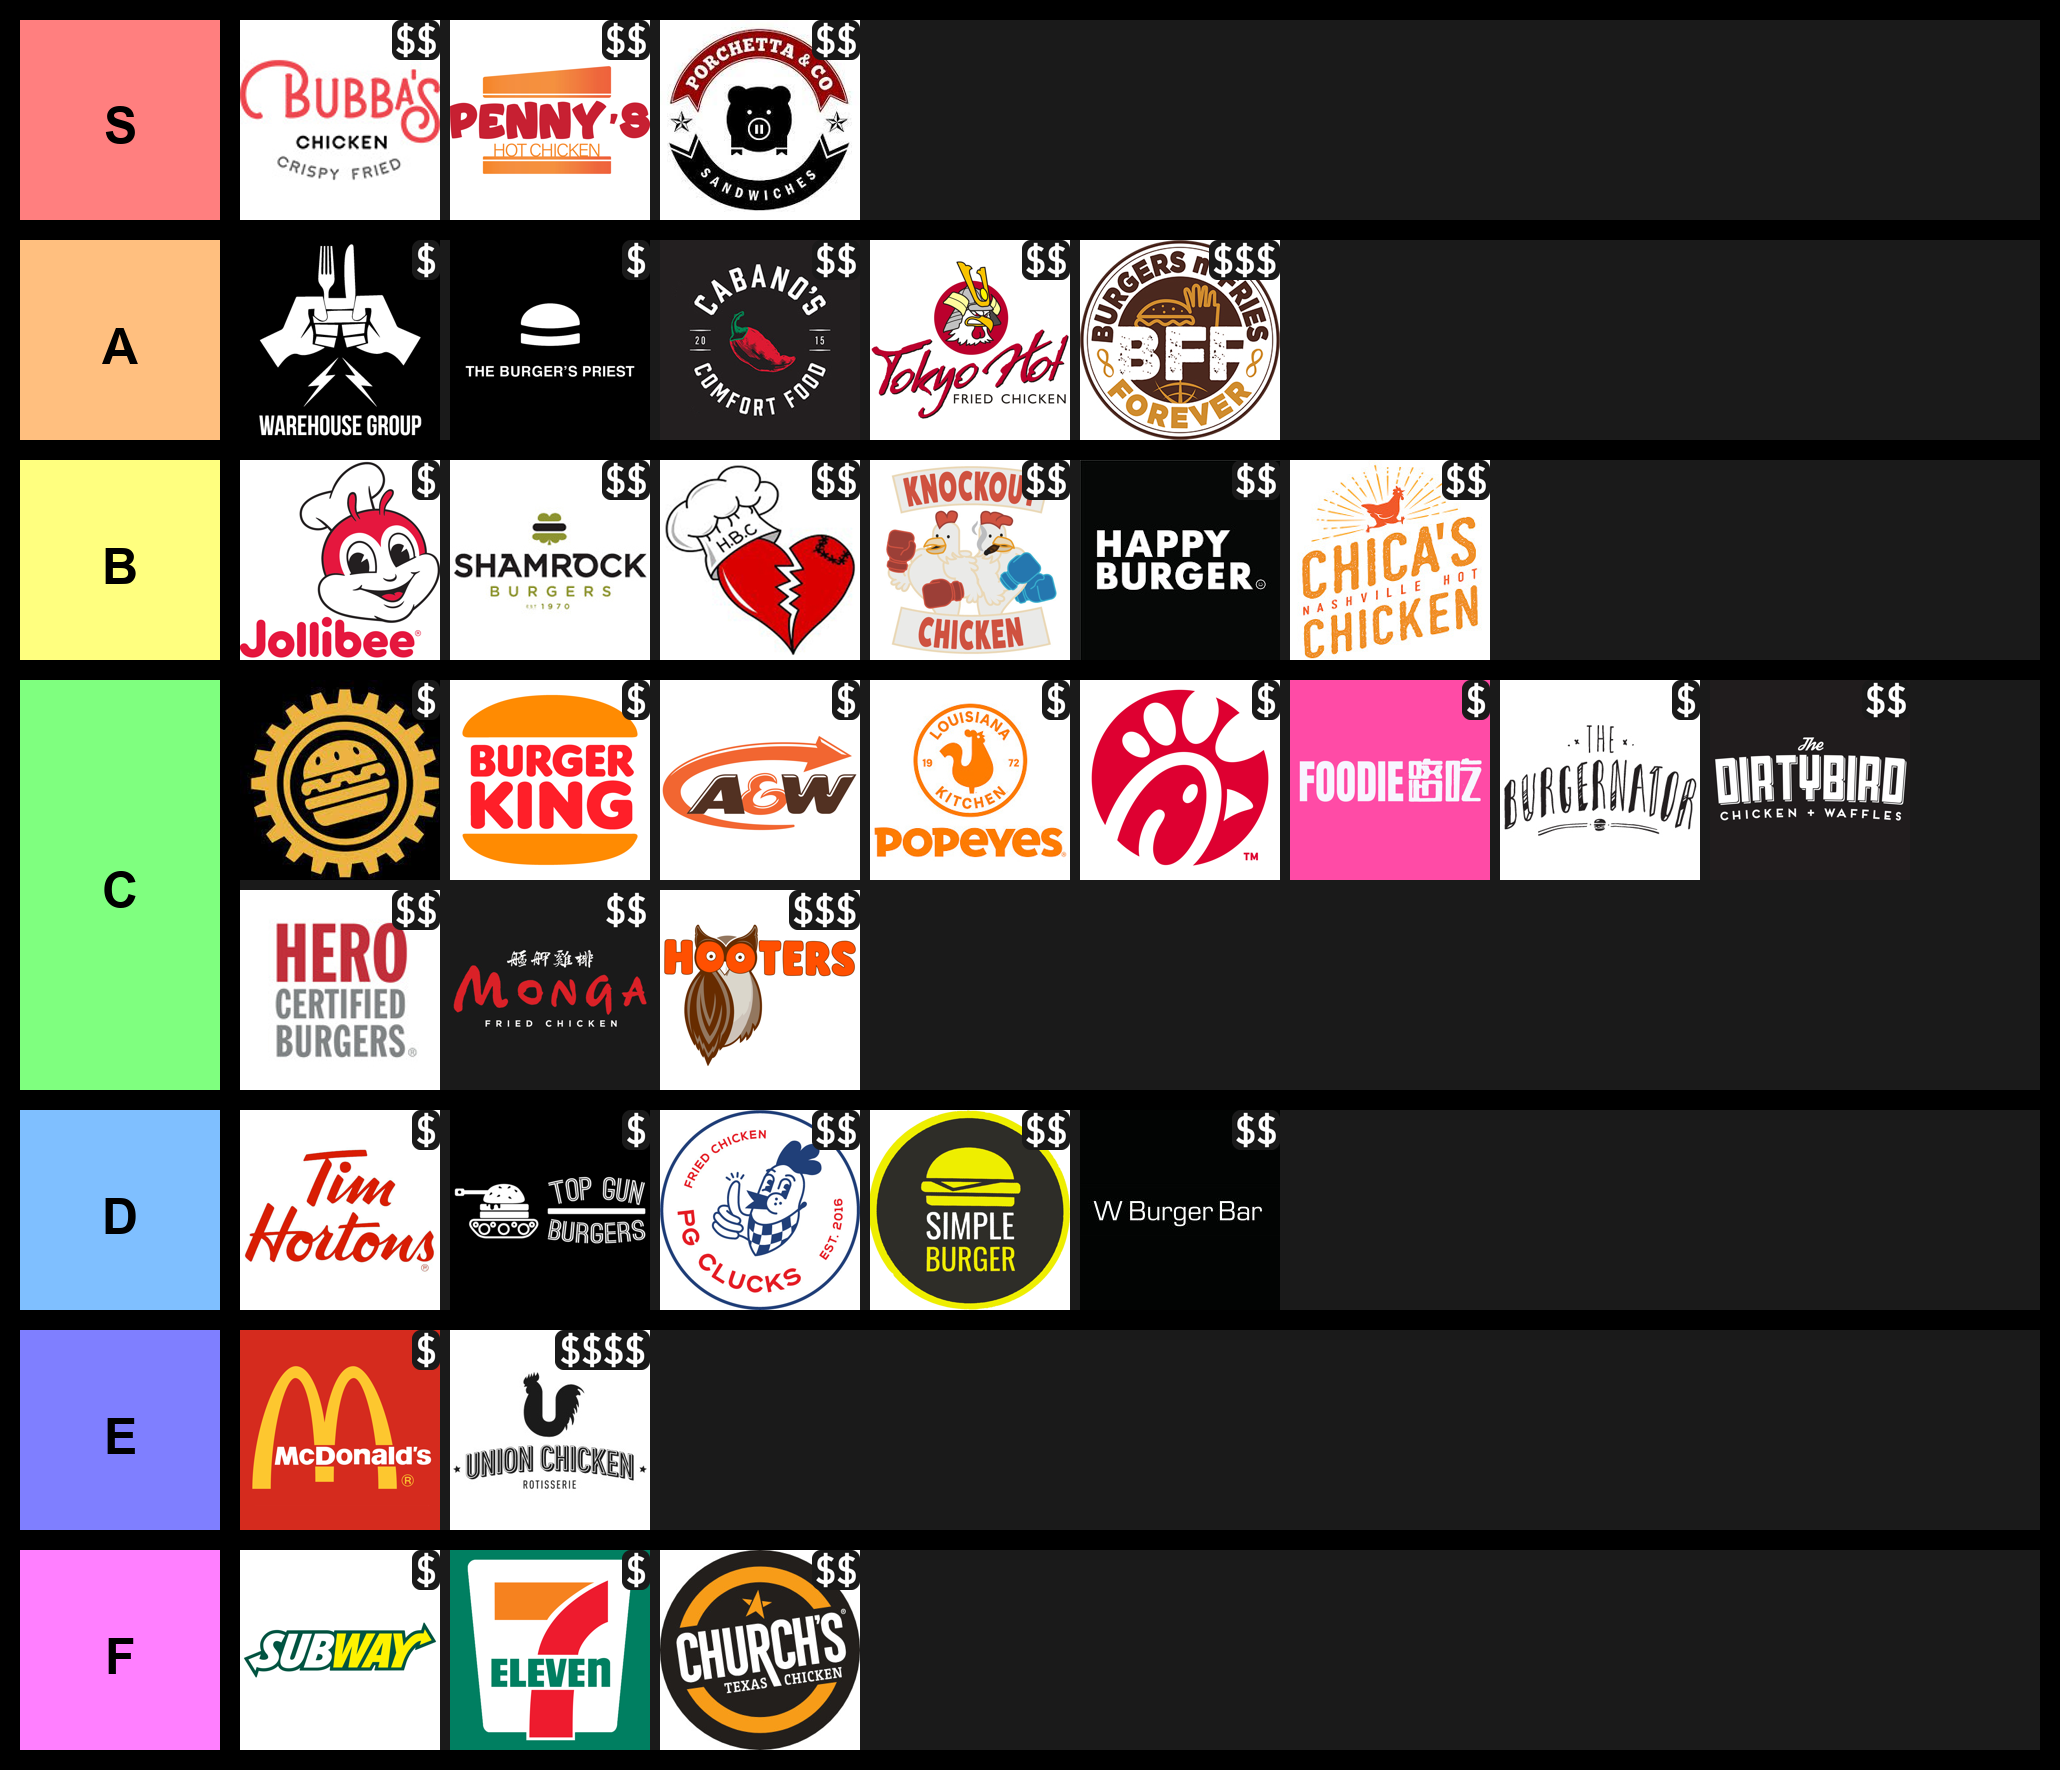
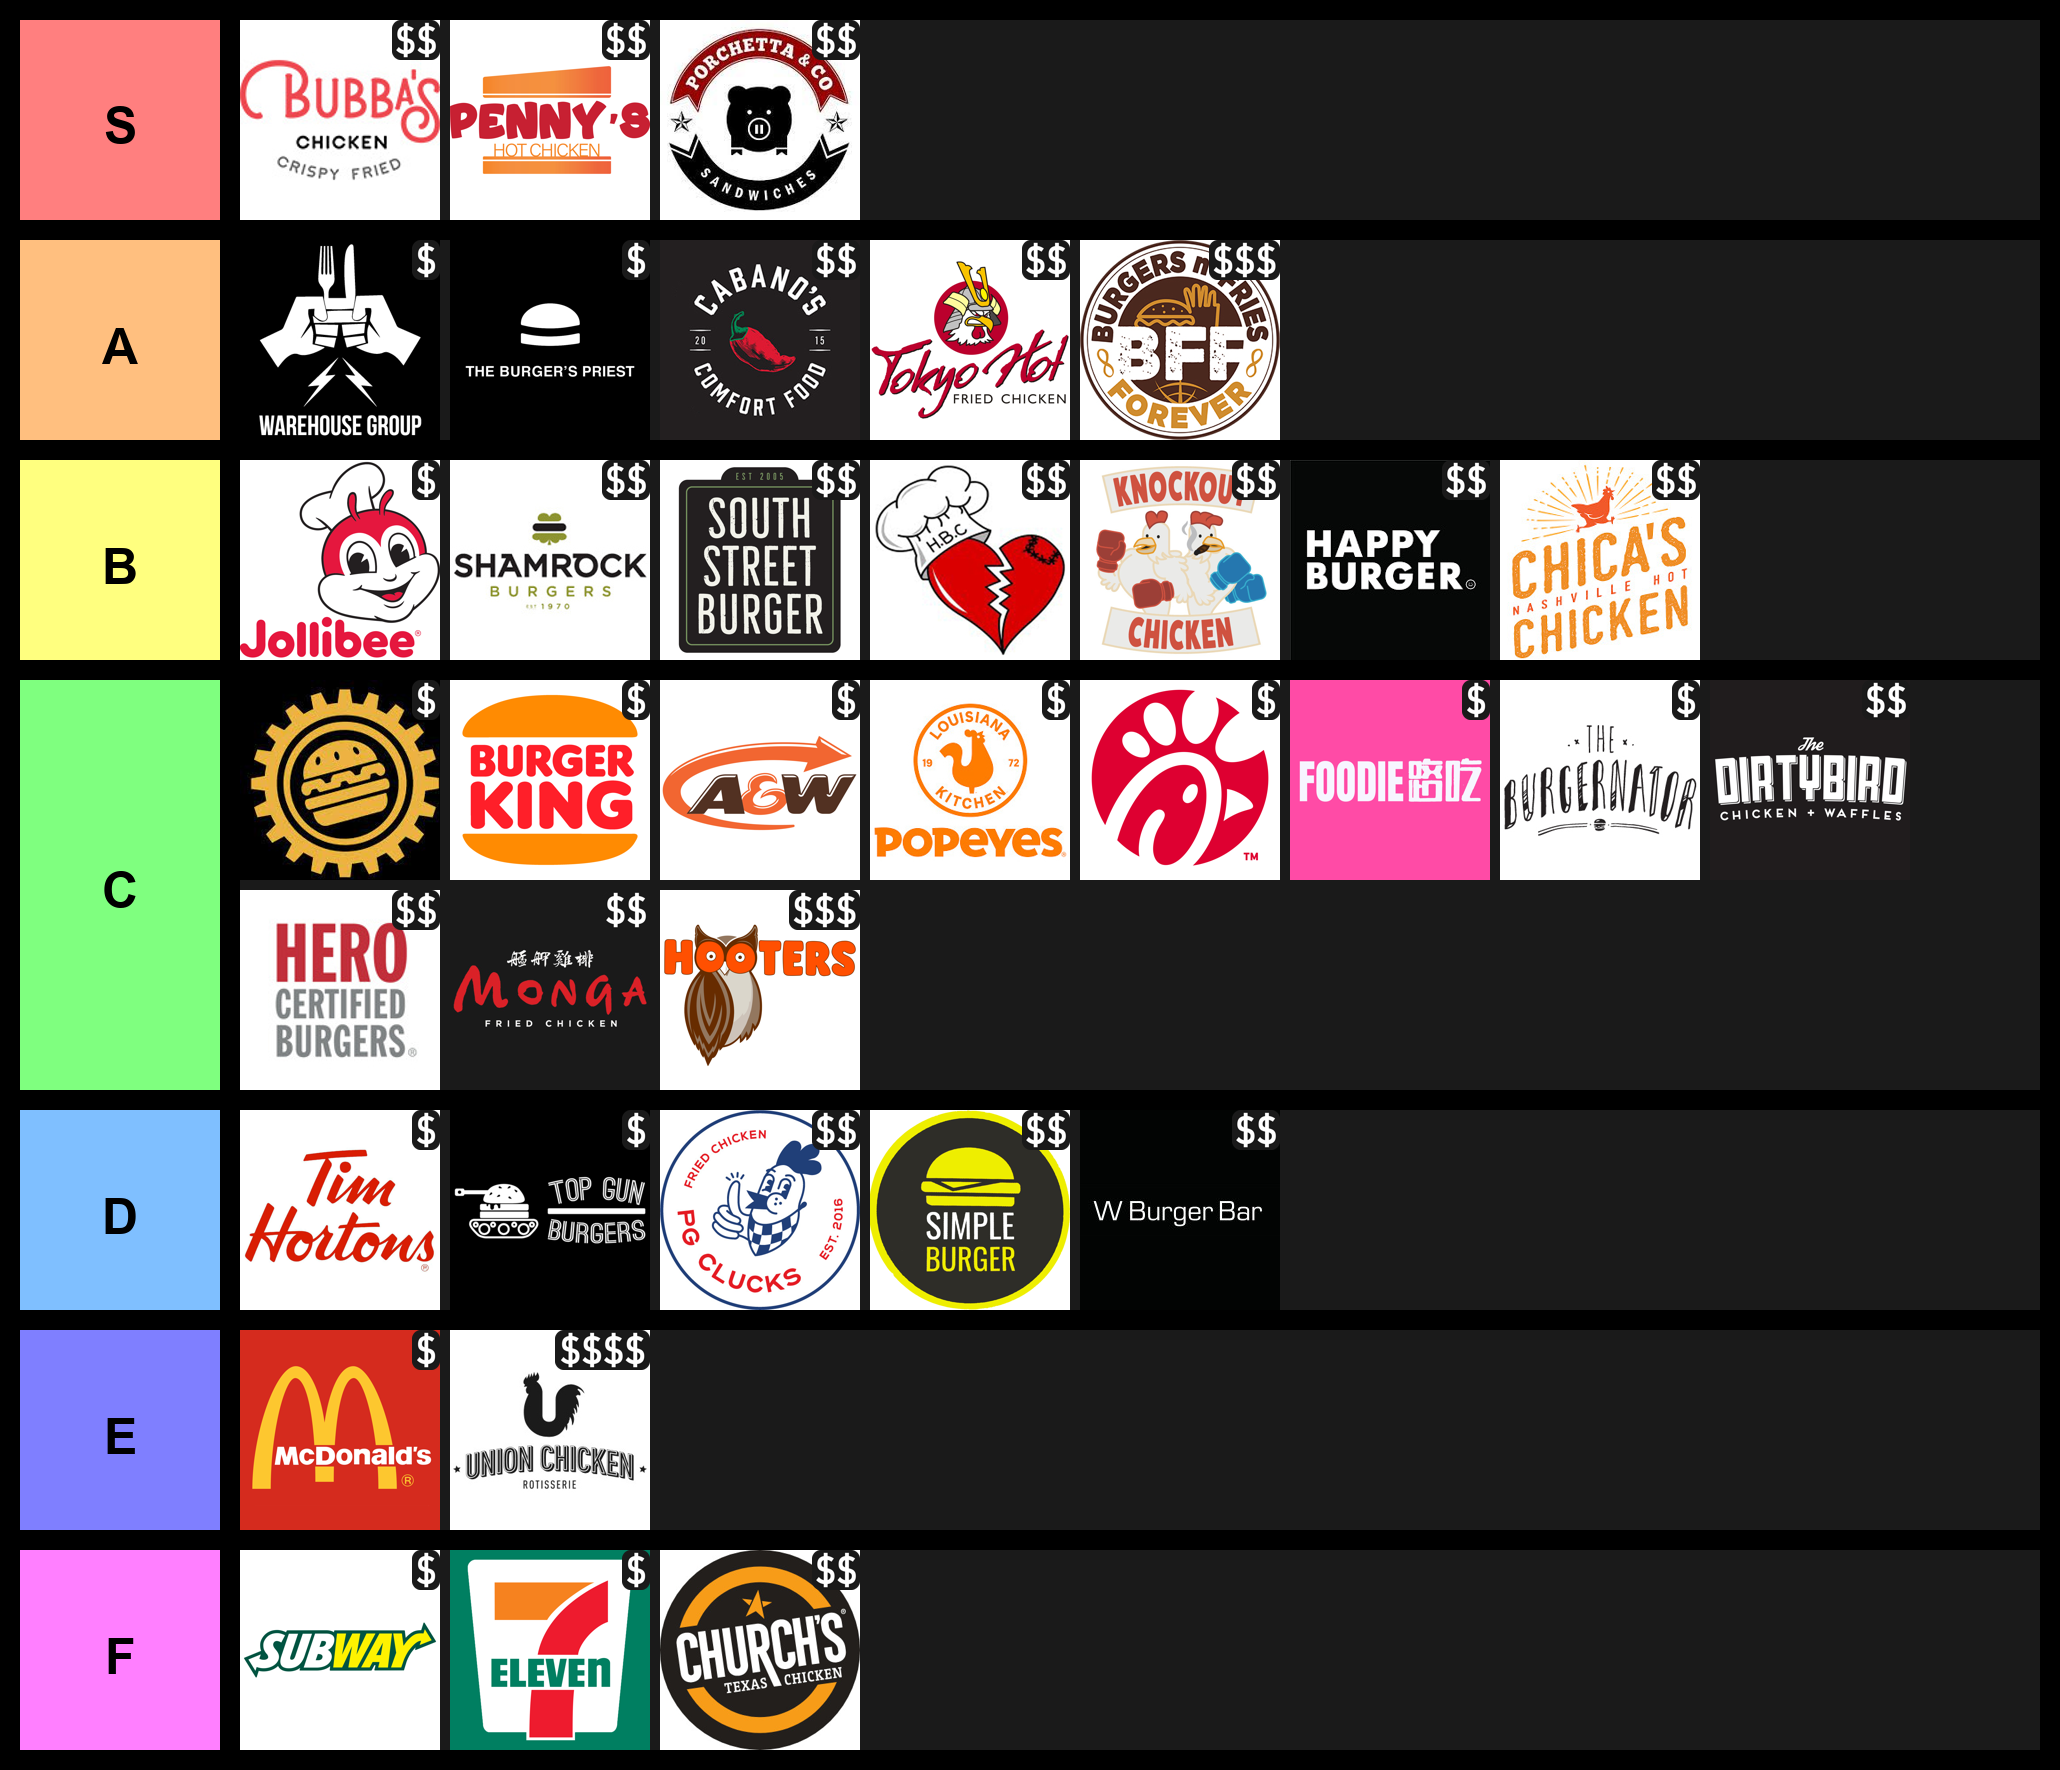
Timezone bugfix + added south st. burger

Changed region(s): [[0.3107, 0.2486, 0.8388, 0.3729]]

diff --git a/main.py b/main.py
@@ -13,6 +13,7 @@ import os
 from keep_alive import keep_alive
 import pymongo
 import certifi
+import pytz
 
 load_dotenv()
 
@@ -45,6 +46,8 @@ TIER_PREFIX = {
 }
 tiers = ['S', 'A', 'B', 'C', 'D', 'E', 'F']
 restaurant_names = [restaurant[0][6:-4] for restaurant in RESTAURANTS]
+
+TIMEZONE = pytz.timezone('America/Toronto')
 
 def setup_db():
     for i in range(len(restaurant_names)):
@@ -333,7 +336,7 @@ def current_date_and_time():
     Returns:
         dict: {"day": int, "time": str}
     """
-    current_datetime = datetime.now()
+    current_datetime = datetime.now(TIMEZONE)
     current_day = get_current_day()
     current_time = current_datetime.strftime("%H%M")
     return {"day": current_day, "time": current_time}
@@ -346,7 +349,7 @@ def get_current_day():
     Returns:
         str: The current day of the week
     """
-    current_day = datetime.now().weekday() + 1
+    current_day = datetime.now(TIMEZONE).weekday() + 1
     if current_day == 7:
         current_day = 0
     return current_day
@@ -355,7 +358,7 @@ def reformat_opening_hours(opening_hours):
     The parameter contains \u2009 or \u202f characters, which are unicode characters. Remove them.
     """
     plain_list = [opening_hour.replace('\u2009', ' ').replace('\u202f', ' ') for opening_hour in opening_hours]
-    current_day = datetime.now().weekday()
+    current_day = datetime.now(TIMEZONE).weekday()
     modified_list = ["**" + plain_list[opening_hour] + "**" if opening_hour == current_day
                      else plain_list[opening_hour] for opening_hour in range(len(plain_list))]
     return "\n".join(modified_list)
